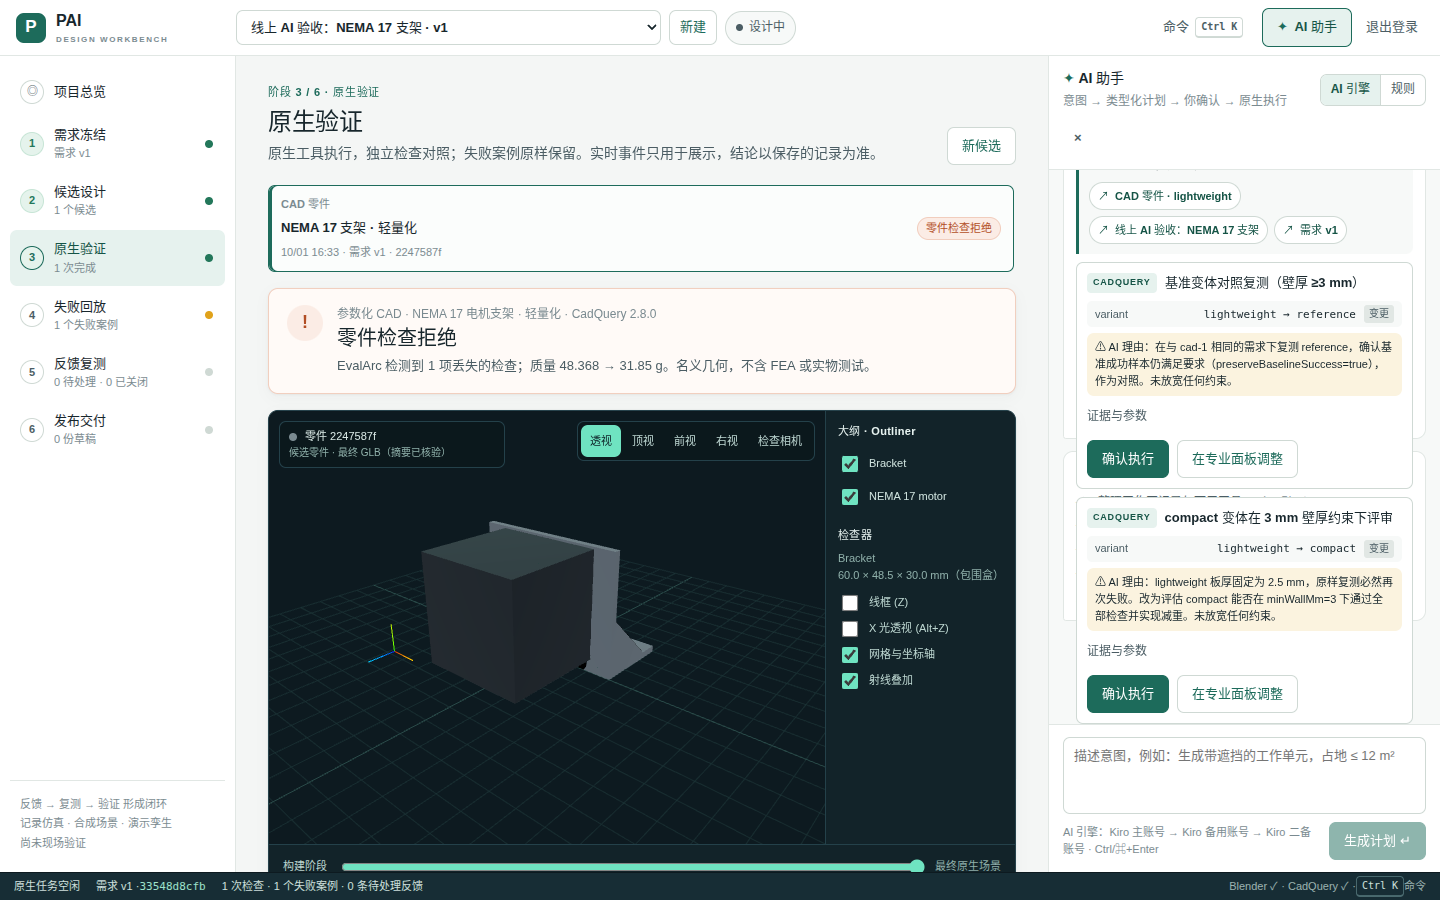
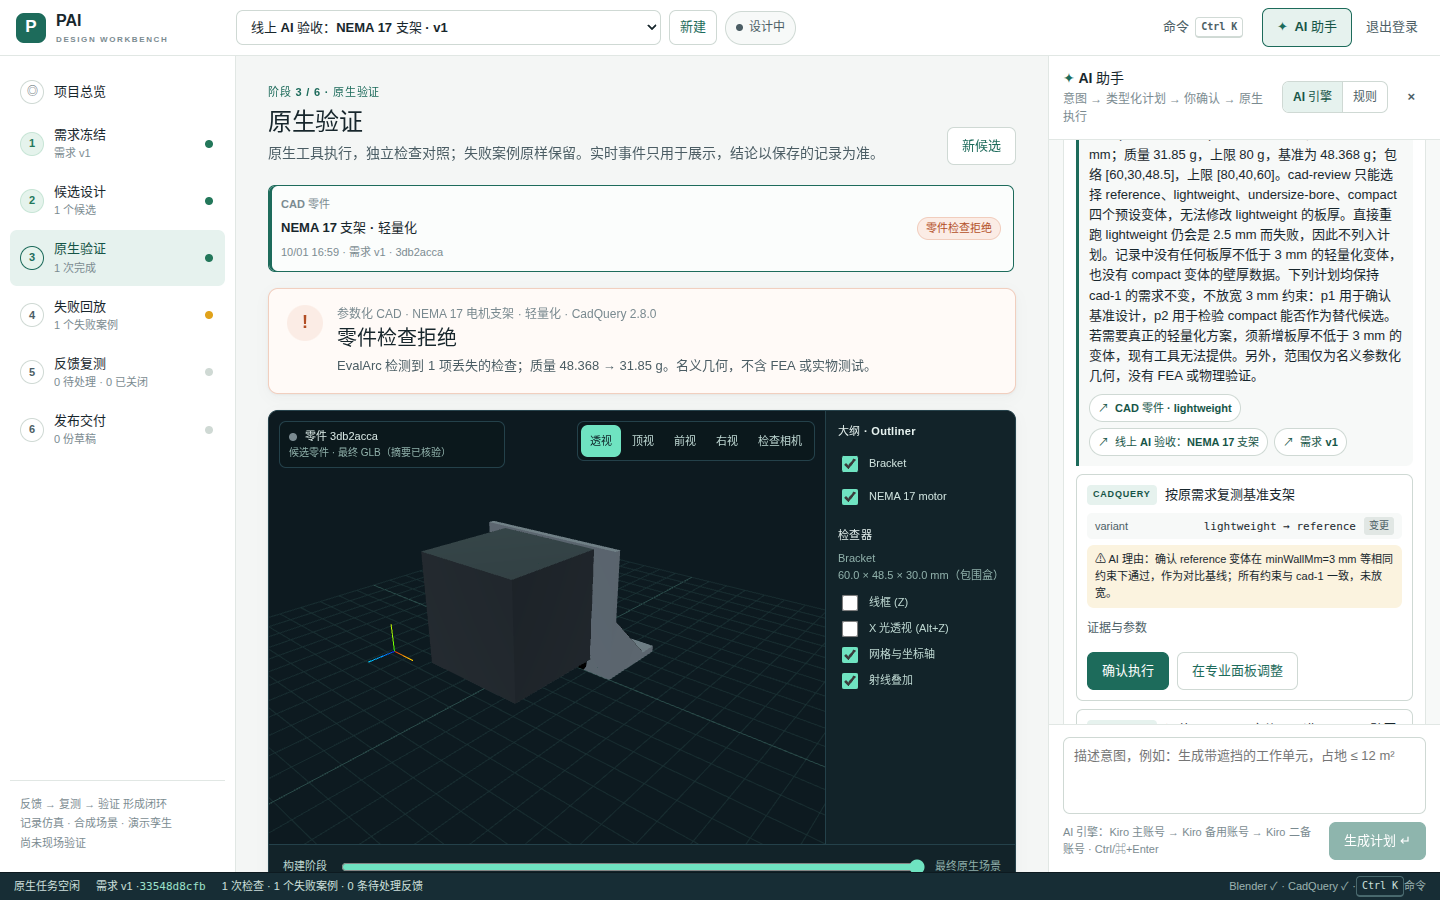
evidence: hosted 0.4.0 AI verification on pai.oneai.host (Kiro primary, cited answer, confirmed plan, WordPress unchanged)

Changed region(s): [[0.75, 0.1556, 1.0, 0.8089], [0.7188, 0.0622, 1.0, 0.1556], [0.2188, 0.4667, 0.25, 0.4978]]

diff --git a/docs/VERIFICATION.md b/docs/VERIFICATION.md
@@ -10,7 +10,7 @@
 | `npm run test:browser` | 8 组通过。AI 组使用假执行器，不消耗真实尝试，覆盖回退链、引用跳转、计划确认、核对门槛，并断言时间线滚动后气泡、引用和计划卡互不重叠 |
 | 本地真实引擎 | Kiro 主账号 2 次完成（答案带引用，计划有效）；Claude 结果需核对，已人工核对；Codex 被执行器在开始前拒绝（模型广播冲突，属执行器侧问题，未修改） |
 | 容器 `pai-workbench:0.4.0` | 7.0 GB，仅 amd64。容器内原生 CAD 得到 min-wall 失败；Kiro 主账号回答，引用 `cad-1`，给出两个壁厚 3 mm 的复测计划。镜像历史中没有密钥。见[回执](evidence/container.json) |
-| pai.oneai.host | 通过 Cognito 登录后：能力清单只列出 Kiro 三个账号；真实 Kiro 主账号用时 30 s 完成，引用 3 条已存记录，两个计划均通过校验；确认执行 compact 方案，原生检查得出的拒绝结论保留；跨源和匿名 AI 请求被拒绝；390 px 无溢出，控制台无错误。见[回执](evidence/deployment-ai.json) |
+| pai.oneai.host | 通过 Cognito 登录后：能力清单只列出 Kiro 三个账号；真实 Kiro 主账号用时 30 s 完成，引用 3 条已存记录，两个计划均通过校验；确认执行 compact 方案，原生检查得出的拒绝结论保留；跨源和匿名 AI 请求被拒绝；390 px 无溢出，控制台无错误。见[回执](evidence/deployment-ai.json)、[基础设施](evidence/deployment-infra-v040.json)、[截图](evidence/cloud-ai.png) |
 
 托管上线过程中发现并修复了三个问题：安装脚本的 stdout 混入了构建输出；主机上的 boto3 没有默认区域；systemd 的 `ProtectSystem=strict` 让 HOME 只读，Kiro 在握手前就退出。前两个问题导致发布中止，但旧版本一直在服务。第三个问题让首次托管调用以 `transport`（开始前失败）结束，没有回退，已人工核对，没有重放；之后用不发送提示的协议探针确认修复有效。截图还发现一个 CSS 选择器冲突：回答气泡继承了侧栏的 sticky 样式，导致内容重叠。已修复，并加入浏览器回归测试，确认该测试在旧样式下会失败。
 
